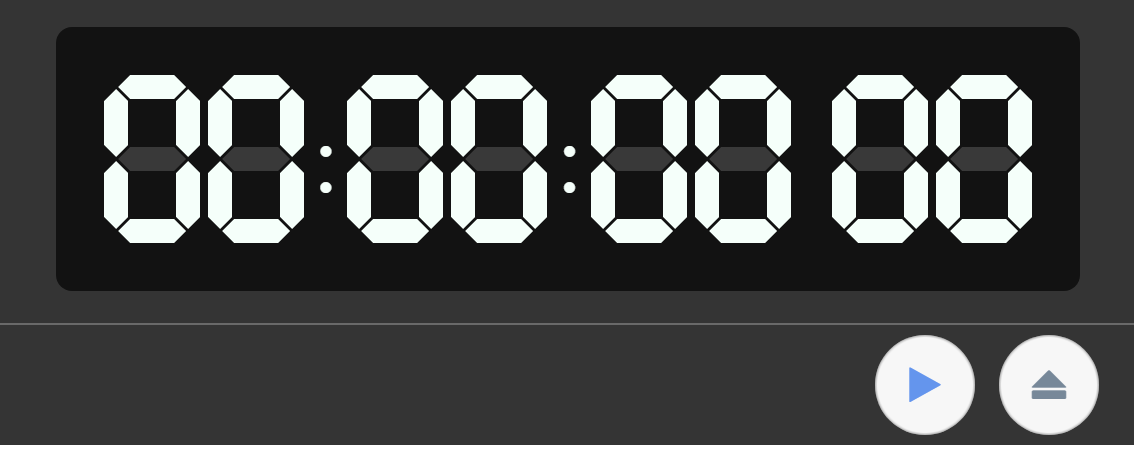
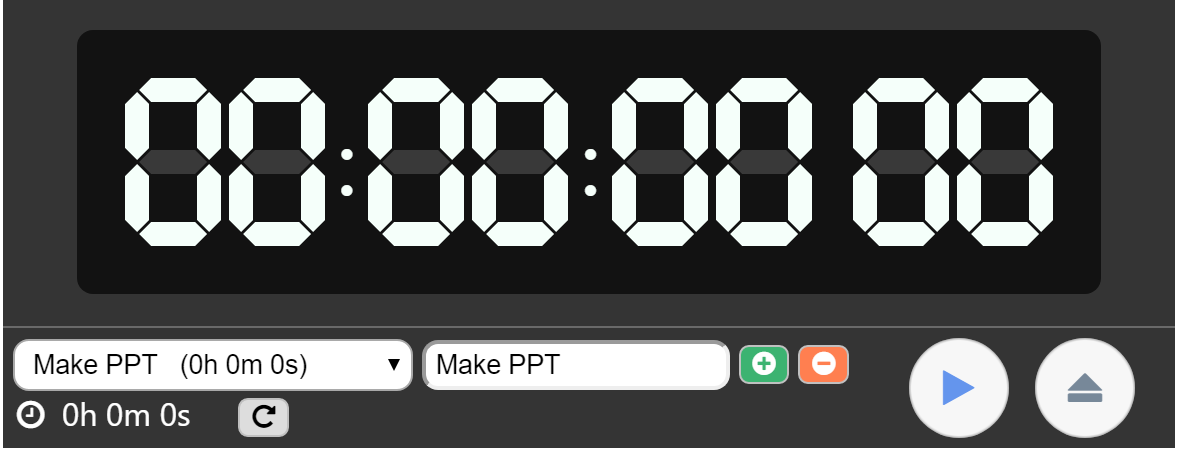
add task select feature

diff --git a/app/index.html b/app/index.html
@@ -10,28 +10,48 @@
     <title>Developer's Stop Watch</title>
   </head>
   <body>
-      <div id="stopWatch">
-        <div class="container">  
-          <div class="board">
-            <digit-template :digit="elapse[0]"></digit-template>
-            <digit-template :digit="elapse[1]"></digit-template>
-            <span class="separator">:</span>
-            <digit-template :digit="elapse[2]"></digit-template>
-            <digit-template :digit="elapse[3]"></digit-template>
-            <span class="separator">:</span>
-            <digit-template :digit="elapse[4]"></digit-template>
-            <digit-template :digit="elapse[5]"></digit-template>
-            <span class="separator">&nbsp;</span>
-            <digit-template :digit="elapse[6]"></digit-template>
-            <digit-template :digit="elapse[7]"></digit-template>
+    <div id="stopWatch">
+      <div class="container">  
+        <div class="board">
+          <digit-template :digit="elapse[0]"></digit-template>
+          <digit-template :digit="elapse[1]"></digit-template>
+          <span class="separator">:</span>
+          <digit-template :digit="elapse[2]"></digit-template>
+          <digit-template :digit="elapse[3]"></digit-template>
+          <span class="separator">:</span>
+          <digit-template :digit="elapse[4]"></digit-template>
+          <digit-template :digit="elapse[5]"></digit-template>
+          <span class="separator">&nbsp;</span>
+          <digit-template :digit="elapse[6]"></digit-template>
+          <digit-template :digit="elapse[7]"></digit-template>
+        </div>
+      </div>
+      <div class="button-panel">
+        <div id="tag-area">
+          <select class="tag" v-model="selected" @change="setForm()">
+            <option :value="tag.id" v-for="tag in tags" :key="tag.id"> {{ tag.name }} &nbsp; ({{ formatSeconds(tag) }})</option>
+          </select>
+          <input class="edit tag" type="text"
+                v-model="newName"
+                @keyup.enter="doneEdit()"
+                @keyup.esc="cancelEdit()">
+          <button class="action-button add" @click="addNewTag()"><i class="fa fa-plus-circle" aria-hidden="true"></i></button>
+          <button class="action-button delete" @click="removeTag()"><i class="fa fa-minus-circle" aria-hidden="true"></i></button>
+          <br/>
+          <div>
+            <span class="time-desc"><i class="fa fa-clock-o" aria-hidden="true"></i>&nbsp; {{ selectedTagTime }}</span>
+            &nbsp;&nbsp;&nbsp;
+            <button class="action-button clear" @click="clearSeconds()"><i class="fa fa-repeat" aria-hidden="true"></i></button>
           </div>
         </div>
-        <div class="button-panel">
+        <div>
           <button v-on:click="start()" class="button start" v-show="!starting"><i class="fa fa-play"></i></button>
           <button v-on:click="stop()" class="button stop" v-show="starting"><i class="fa fa-stop"></i></button>
           <span>&nbsp;</span>
-          <button v-on:click="reset()" class="button reset"><i class="fa fa-eject"></i></button>          
+          <button v-on:click="reset()" class="button reset"><i class="fa fa-eject"></i></button>
         </div>
+        <span style="clear:both"/>
+      </div>
     </div>
   </body>
   <script type="text/x-template" id="digit-template">

diff --git a/app/js/index.js b/app/js/index.js
@@ -14,7 +14,24 @@ var app = new Vue({
     data: {
         timer: null,
         startTime: 0,
-        now_: 0
+        now_: 0,
+        tags: [],
+        selected: 0,
+        newName: ""
+    },
+    created: function(){
+        var stored = localStorage.getItem("tags");
+        if(stored != null){
+            this.tags = JSON.parse(stored);
+            this.selected = this.tags[0].id;
+            this.setForm();
+        }
+        if(this.tags.length == 0){
+            this.addNewTag();
+            this.addNewTag();
+            this.addNewTag();
+            this.setForm();
+        }
     },
     computed: {
         elapse: function(){
@@ -27,6 +44,19 @@ var app = new Vue({
         },
         starting: function(){
             return this.timer != null ? true : false;
+        },
+        selectedTag: function(){
+            var tag = null;
+            for(var i = 0; i < this.tags.length; i++){
+                if(this.tags[i].id == this.selected){
+                    tag = this.tags[i];
+                    break;
+                }
+            }
+            return tag;
+        },
+        selectedTagTime: function(){
+            return this.formatSeconds(this.selectedTag);
         }
     },
     methods: {
@@ -50,8 +80,53 @@ var app = new Vue({
             if(this.timer != null){
                 this.stop();
             }
+            var tag = this.selectedTag;
+            var elapse = moment.duration(this.now_.diff(this.startTime)).asSeconds();
+            tag.seconds += elapse;
+            this.save();
             this.startTime = 0;
             this.now_ = 0;
+        },
+        formatSeconds: function(tag){
+            var elapse = moment.duration(tag.seconds, "seconds");
+            var formatted = moment.utc(elapse.asMilliseconds()).format("H[h] m[m] s[s]");  //up to 24h
+            return formatted;
+        },
+        setForm: function(){
+            var tag = this.selectedTag;
+            this.newName = tag.name;
+        },
+        doneEdit: function(){
+            var tag = this.selectedTag;
+            var newName = this.newName.trim();
+            if(newName){
+                tag.name = newName;
+                this.save();
+            }
+        },
+        clearSeconds: function(){
+            var tag = this.selectedTag;
+            tag.seconds = 0;
+            this.save();
+        },
+        removeTag: function(){
+            var tag = this.selectedTag;
+            this.tags.splice(this.tags.indexOf(tag), 1);
+            this.save();
+            this.selected = this.tags[0].id;
+            this.setForm();
+        },
+        addNewTag: function(){
+            var index = this.tags.length;
+            var name = this.newName ? this.newName : ("Task" + index);
+            var tag = {"id": index, "name": name, "seconds": 0};
+            this.tags.push(tag);
+            this.save();
+            this.selected = this.tags[this.tags.length - 1].id;
+            this.setForm();
+        },
+        save: function(){
+            localStorage.setItem("tags", JSON.stringify(this.tags));
         }
     }
 })

diff --git a/app/css/index.css b/app/css/index.css
@@ -1,8 +1,52 @@
 .button-panel{
+    font-family: -apple-system,BlinkMacSystemFont,Segoe UI,Helvetica Neue,Hiragino Kaku Gothic ProN,"メイリオ",meiryo,sans-serif;
     background: #343434;
     text-align: right;
     padding: 5px 20px 5px 5px;
     border-top: 1px solid dimgray;
+}
+
+#tag-area{
+    float:left;
+    text-align:left
+}
+
+.tag{
+    width: 140px;
+    height: 17px;
+    border-radius: 8px;    
+    background-color: white;
+    text-align: left;
+    padding: 2px 5px 2px 5px;
+}
+
+select.tag{
+    width: 200px;
+}
+
+select.tag{
+    height: 26px;
+}
+
+.action-button{
+    border-radius: 5px;
+    text-align: center;
+    border: 1px solid silver;
+}
+
+.action-button.add{
+    background-color: mediumseagreen;
+    color: white;
+}
+
+.action-button.delete{
+    background-color: coral;
+    color: white;    
+}
+
+.time-desc{
+    padding: 2px;
+    color: white;
 }
 
 .button {

diff --git a/app/main.js b/app/main.js
@@ -5,7 +5,7 @@ const url = require("url")
 let win
 
 function createWindow () {
-  win = new BrowserWindow({width: 600, height: 300})
+  win = new BrowserWindow({width: 615, height: 300})
   //win.setMenu(null);
 
   var electronVersion = process.versions.electron;

diff --git a/README.md b/README.md
@@ -6,4 +6,4 @@ stop watch for developer
 
 ## Install
 
-[Publish Link](https://drive.google.com/open?id=0B1mQfOwV0VUHcG9sLVRORi1lYzg)
+[Windows](https://drive.google.com/open?id=0B1mQfOwV0VUHUkR5UmhHS0hFeU0)
